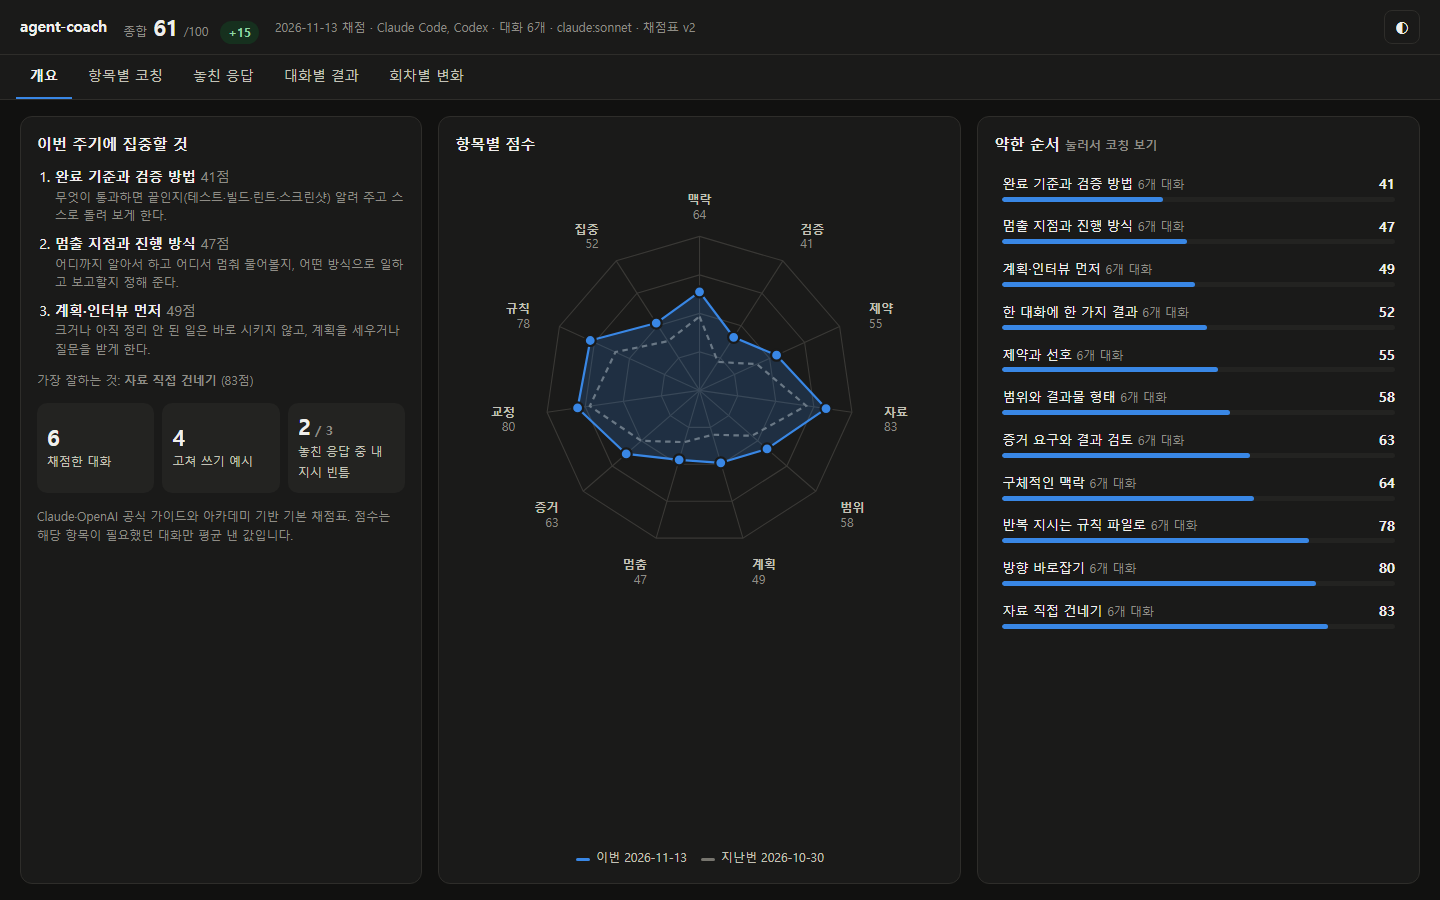
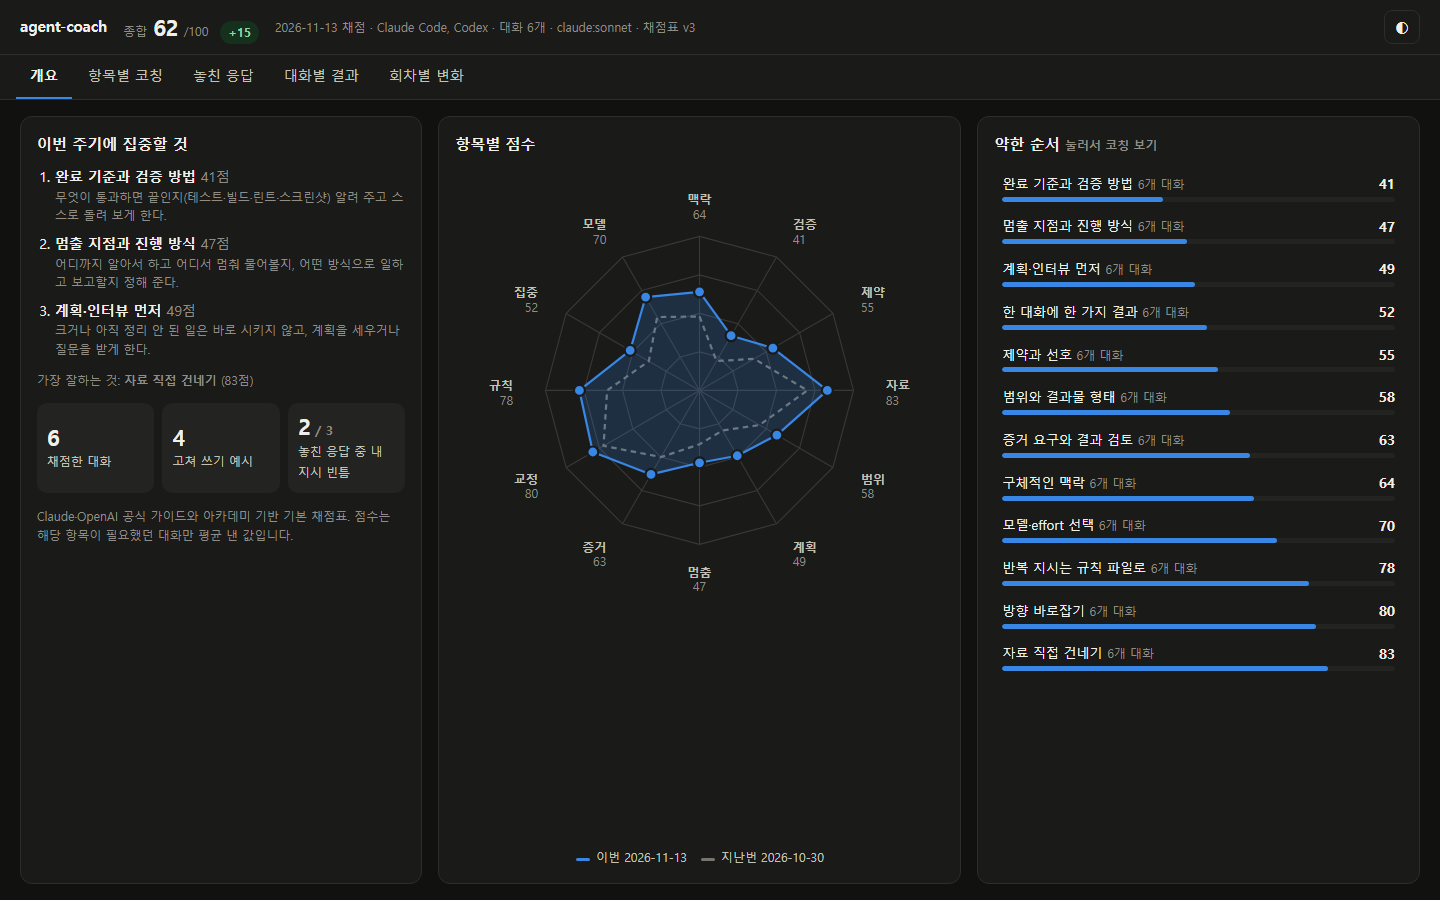
Grade model and effort choice (rubric v3)
- Collect the model and reasoning effort that answered each turn
  (Claude: assistant message model + effort; Codex: turn_context)
- Show them to the judge per turn and in the report's conversation view
- New habit 'Model and effort choice', grounded in Claude Code model
  configuration docs and OpenAI Academy Get Started with Codex 1.2
- Docs, demo data and screenshots updated for 12 habits

diff --git a/agentcoach/collect.py b/agentcoach/collect.py
@@ -26,6 +26,8 @@ class Turn:
     images: int = 0
     slash: str = ""           # e.g. "/clear" when the turn was a slash command
     agent_after: str = ""     # summary of what the agent did before the next human turn
+    model: str = ""           # model that answered this turn, when the transcript records it
+    effort: str = ""          # reasoning effort for that answer (low/medium/high/xhigh/max…)
 
 
 @dataclass
@@ -40,6 +42,15 @@ class Session:
 
     def to_dict(self) -> dict:
         return asdict(self)
+
+    def model_mix(self) -> list[dict]:
+        """[{model, effort, turns}] in order of first use; empty when the transcript has none."""
+        mix: dict[tuple[str, str], int] = {}
+        for t in self.turns:
+            if t.model or t.effort:
+                k = (t.model, t.effort)
+                mix[k] = mix.get(k, 0) + 1
+        return [{"model": m, "effort": e, "turns": n} for (m, e), n in mix.items()]
 
 
 # ---------------------------------------------------------------- helpers
@@ -147,6 +158,10 @@ def parse_claude_file(path: str, include_sdk: bool = False) -> Session | None:
                 if d.get("turnOrigin") not in (None, "human") and not origin_human and not include_sdk:
                     continue
             if d.get("type") == "assistant" and not d.get("isSidechain"):
+                model = (d.get("message") or {}).get("model") or ""
+                if turns and not turns[-1].model and model and not model.startswith("<"):
+                    turns[-1].model = model
+                    turns[-1].effort = str(d.get("perTurnEffort") or d.get("effort") or "")
                 for c in (d.get("message") or {}).get("content") or []:
                     if not isinstance(c, dict):
                         continue
@@ -241,6 +256,8 @@ def parse_codex_file(path: str, include_sdk: bool = False) -> Session | None:
                 if text.startswith(_NOISE_PREFIXES):
                     continue
                 order.append(("user", text, ts, images))
+            elif t == "turn_context":
+                order.append(("ctx", p.get("model") or "", str(p.get("effort") or p.get("reasoning_effort") or "")))
             elif t == "event_msg" and pt == "user_message":
                 from_events.append((p.get("message", "").strip(), ts, len(p.get("images") or [])))
             elif t == "response_item" and pt in ("function_call", "custom_tool_call", "local_shell_call"):
@@ -260,14 +277,21 @@ def parse_codex_file(path: str, include_sdk: bool = False) -> Session | None:
             turns[-1].agent_after = _summarize_agent(tools, last_text)
         tools, last_text = {}, ""
 
+    ctx = ("", "")
     for o in order:
+        if o[0] == "ctx":
+            ctx = (o[1], o[2])
+            if turns and not turns[-1].model:   # context logged right after the prompt it answers
+                turns[-1].model, turns[-1].effort = ctx
+            continue
         if o[0] == "user":
             _, text, ts, images = o
             if not text and not images:
                 continue
             flush()
             slash = text.split()[0] if text.startswith("/") and text.split() else ""
-            turns.append(Turn(index=len(turns) + 1, text=text, ts=ts, images=images, slash=slash))
+            turns.append(Turn(index=len(turns) + 1, text=text, ts=ts, images=images, slash=slash,
+                              model=ctx[0], effort=ctx[1]))
             first_ts = first_ts or ts
             last_ts = ts or last_ts
         elif o[0] == "tool":

diff --git a/tests/test_collect.py b/tests/test_collect.py
@@ -76,6 +76,44 @@ class CodexParse(unittest.TestCase):
         self.assertIsNone(parse_codex_file(p))
 
 
+class ModelEffort(unittest.TestCase):
+    def test_claude_records_model_and_effort(self):
+        from agentcoach.judge import render_transcript
+        p = _write([
+            claude_user("버그 고쳐줘"),
+            {"type": "assistant", "effort": "high", "perTurnEffort": "high",
+             "message": {"model": "claude-opus-5-5", "content": [{"type": "text", "text": "ok"}]}},
+            claude_user("이제 README 오타만 고쳐"),
+            {"type": "assistant", "effort": "low", "perTurnEffort": "low",
+             "message": {"model": "claude-opus-5-5", "content": [{"type": "text", "text": "ok"}]}},
+        ])
+        s = parse_claude_file(p)
+        self.assertEqual([(t.model, t.effort) for t in s.turns],
+                         [("claude-opus-5-5", "high"), ("claude-opus-5-5", "low")])
+        self.assertEqual(len(s.model_mix()), 2)
+        txt = render_transcript(s)
+        self.assertIn("model/effort used", txt)
+        self.assertIn("effort low", txt)
+
+    def test_codex_turn_context(self):
+        p = _write([
+            {"type": "session_meta", "payload": {"id": "m", "cwd": "/w/demo", "source": "vscode",
+                                                 "originator": "codex-tui", "thread_source": "user"}},
+            {"type": "response_item", "payload": {"type": "message", "role": "user",
+                                                  "content": [{"type": "input_text", "text": "테스트 고쳐줘"}]}},
+            {"type": "turn_context", "payload": {"model": "gpt-5.6-sol", "effort": "medium"}},
+        ])
+        s = parse_codex_file(p)
+        self.assertEqual((s.turns[0].model, s.turns[0].effort), ("gpt-5.6-sol", "medium"))
+        self.assertEqual(s.project, "demo")
+
+    def test_rubric_has_model_dimension(self):
+        r = load_rubric(lang="en")
+        d = next(x for x in r["dimensions"] if x["id"] == "model_effort")
+        self.assertEqual(d["name"], "Model and effort choice")
+        self.assertGreaterEqual(r["version"], 3)
+
+
 class Scoring(unittest.TestCase):
     def test_heuristic_and_aggregate(self):
         rubric = load_rubric()

diff --git a/agentcoach/report.py b/agentcoach/report.py
@@ -90,7 +90,7 @@ UI = {
     'no_match': {'ko': '조건에 맞는 대화가 없습니다', 'en': 'No matching conversations'},
     'no_sess': {'ko': '채점한 대화가 없습니다.', 'en': 'No conversations graded.'},
     'back_sess': {'ko': '← 대화 목록', 'en': '← Conversations'},
-    'turns2': {'ko': '${day(s.ended)} · ${s.turns}턴</div>`;', 'en': '${day(s.ended)} · ${s.turns} turns</div>`;'},
+    'turns2': {'ko': '${day(s.ended)} · ${s.turns}턴${mdl(s)}</div>`;', 'en': '${day(s.ended)} · ${s.turns} turns${mdl(s)}</div>`;'},
     'sess_rewrites': {'ko': '<h3>이 대화의 고쳐 쓰기</h3>', 'en': '<h3>Rewrites in this conversation</h3>'},
     'sess_misses': {'ko': '원하는 응답을 못 받은 곳 <span class="chip">', 'en': 'Where you didn\'t get what you wanted <span class="chip">'},
     'verdicts': {'ko': '항목별 판정</h3>', 'en': 'Verdict per habit</h3>'},
@@ -316,6 +316,7 @@ const D = JSON.parse(document.getElementById("data").textContent);
 const dims = D.rubric.dimensions, runs = D.runs, cur = runs[runs.length - 1], prev = runs.length > 1 ? runs[runs.length - 2] : null;
 const sessions = D.current.sessions || [];
 const SRC = {claude: "Claude Code", codex: "Codex"};
+const mdl = s => (s.models || []).length ? " · " + s.models.map(m => esc((m.model || "?").replace(/^claude-/, "")) + (m.effort ? " / " + esc(m.effort) : "") + (s.models.length > 1 ? ` (${m.turns})` : "")).join(", ") : "";
 const $ = s => document.querySelector(s);
 const esc = s => String(s ?? "").replace(/[&<>"']/g, c => ({"&":"&amp;","<":"&lt;",">":"&gt;",'"':"&quot;","'":"&#39;"}[c]));
 const day = s => (s || "").slice(0, 10);

diff --git a/scripts/demo_report.py b/scripts/demo_report.py
@@ -128,6 +128,8 @@ def make_run(rubric, created, base, seed):
         misses = [misses_src[{0: 0, 2: 2, 5: 1}[k]]] if k in (0, 2, 5) else []
         sessions.append({"id": f"s{k}", "source": src, "project": proj, "started": created, "ended": created,
                          "turns": turns, "task_summary": summary, "judge": "claude:sonnet",
+                         "models": [{"model": "claude-opus-5-5" if src == "claude" else "gpt-5.6-sol",
+                                     "effort": ["medium", "high", "low"][k % 3], "turns": turns}],
                          "dimensions": sd, "coaching": coaching, "misses": misses})
     scored = [v["score"] for v in dims.values()]
     return {"schema": 1, "created": created, "judge": "claude:sonnet", "sources": ["claude", "codex"],
@@ -143,8 +145,8 @@ def main():
     ap.add_argument("-o", "--out", default="demo-report.html")
     a = ap.parse_args()
     rubric = load_rubric(lang=a.lang)
-    runs = [make_run(rubric, "2026-10-30T09:00:00+00:00", [48, 22, 41, 70, 45, 30, 35, 50, 72, 60, 38], 1),
-            make_run(rubric, "2026-11-13T09:00:00+00:00", [64, 41, 55, 83, 58, 49, 47, 63, 80, 78, 52], 2)]
+    runs = [make_run(rubric, "2026-10-30T09:00:00+00:00", [48, 22, 41, 70, 45, 30, 35, 50, 72, 60, 38, 55], 1),
+            make_run(rubric, "2026-11-13T09:00:00+00:00", [64, 41, 55, 83, 58, 49, 47, 63, 80, 78, 52, 70], 2)]
     Path(a.out).write_text(render(runs, rubric), encoding="utf-8")
     print(a.out)
 

diff --git a/agentcoach/judge.py b/agentcoach/judge.py
@@ -24,13 +24,22 @@ MAX_SESSION_CHARS = 40000   # misses need the whole session, not just its openin
 
 def render_transcript(s: Session) -> str:
     lines = [f"source: {s.source}  project: {s.project}  turns: {len(s.turns)}"]
+    mix = s.model_mix()
+    if mix:
+        lines.append("\nmodel/effort used: " + ", ".join(
+            f'{m["model"] or "?"} / {m["effort"] or "?"} ({m["turns"]} turns)' for m in mix))
     budget = MAX_SESSION_CHARS
+    shown = ("", "")
     for t in s.turns:
         txt = redact(t.text)
         if len(txt) > MAX_TURN_CHARS:
             txt = txt[:MAX_TURN_CHARS] + f"… [+{len(txt) - MAX_TURN_CHARS} chars]"
         img = f" [+{t.images} image]" if t.images else ""
-        block = f"\n### USER turn {t.index}{img}\n{txt}\n"
+        tag = ""
+        if (t.model or t.effort) and (t.model, t.effort) != shown:
+            tag = f" [answered by {t.model or '?'} / effort {t.effort or '?'}]"
+            shown = (t.model, t.effort)
+        block = f"\n### USER turn {t.index}{img}{tag}\n{txt}\n"
         if t.agent_after:
             block += f"[agent → {redact(t.agent_after)}]\n"
         if len(block) > budget:

diff --git a/agentcoach/store.py b/agentcoach/store.py
@@ -59,7 +59,7 @@ def build_run(sessions: list[Session], results: dict[str, dict], rubric: dict,
             v["excerpt"] = redact(t.text[:220]) if t else ""
         per.append({
             "id": s.id, "source": s.source, "project": s.project,
-            "started": s.started, "ended": s.ended, "turns": len(s.turns),
+            "started": s.started, "ended": s.ended, "turns": len(s.turns), "models": s.model_mix(),
             "task_summary": redact(r.get("task_summary", "")),
             "judge": r.get("judge", judge),
             "dimensions": dims,

diff --git a/README.ko.md b/README.ko.md
@@ -23,14 +23,14 @@
 
 <picture>
   <source media="(prefers-color-scheme: dark)" srcset="https://github.com/1017toa/agent-coach/raw/main/docs/images/ko-overview-dark.png">
-  <img alt="agent-coach 리포트: 종합 점수, 이번에 집중할 습관 3개, 11개 지시 습관 레이더 차트, 약한 순서 목록" src="https://github.com/1017toa/agent-coach/raw/main/docs/images/ko-overview-light.png" width="900">
+  <img alt="agent-coach 리포트: 종합 점수, 이번에 집중할 습관 3개, 12개 지시 습관 레이더 차트, 약한 순서 목록" src="https://github.com/1017toa/agent-coach/raw/main/docs/images/ko-overview-light.png" width="900">
 </picture>
 
 <sub>가상의 대화로 만든 데모 리포트입니다 (<code>python scripts/demo_report.py --lang ko</code>).</sub>
 
 </div>
 
-**agent-coach**는 Claude Code와 OpenAI Codex가 내 컴퓨터에 이미 저장해 둔 대화 기록(`~/.claude/projects`, `~/.codex/sessions`)을 읽어, Anthropic·OpenAI 공식 가이드와 아카데미에서 뽑은 11가지 습관으로 내가 AI에게 지시하는 방식을 채점하는 명령줄 도구입니다. 내가 실제로 쓴 지시를 더 나은 형태로 고쳐 주고, 원하는 응답을 못 받은 턴을 찾아 주며, 회차마다 점수를 쌓아 나아지고 있는지 보여 줍니다.
+**agent-coach**는 Claude Code와 OpenAI Codex가 내 컴퓨터에 이미 저장해 둔 대화 기록(`~/.claude/projects`, `~/.codex/sessions`)을 읽어, Anthropic·OpenAI 공식 가이드와 아카데미에서 뽑은 12가지 습관으로 내가 AI에게 지시하는 방식을 채점하는 명령줄 도구입니다. 내가 실제로 쓴 지시를 더 나은 형태로 고쳐 주고, 원하는 응답을 못 받은 턴을 찾아 주며, 회차마다 점수를 쌓아 나아지고 있는지 보여 줍니다.
 
 ## 빠른 시작
 
@@ -88,7 +88,7 @@ codex plugin add agent-coach@agent-coach
   │
   ● 가리기    키, 이메일, 전화·주민·카드 번호, 주소, 직접 등록한 이름
   │
-  ● 채점      대화당 한 번, 내 claude / codex CLI로, 채점표 v2 (11개 습관)
+  ● 채점      대화당 한 번, 내 claude / codex CLI로, 채점표 v3 (12개 습관)
   │
   ● 저장      ~/.agent-coach/history/run-*.json
   │
@@ -97,7 +97,7 @@ codex plugin add agent-coach@agent-coach
 
 ## 채점 항목
 
-11개 습관을 그 습관이 필요했던 대화에서만 0 / 1 / 2로 매기고, 평균을 0~100점으로 바꿉니다.
+12개 습관을 그 습관이 필요했던 대화에서만 0 / 1 / 2로 매기고, 평균을 0~100점으로 바꿉니다.
 
 | 항목 | 공식 가이드가 권하는 것 |
 |---|---|
@@ -112,6 +112,7 @@ codex plugin add agent-coach@agent-coach
 | 방향 바로잡기 | 두 번 고쳐도 안 되면 더 나은 지시로 새로 시작한다 |
 | 반복 지시는 규칙 파일로 | 매번 하는 말은 CLAUDE.md, AGENTS.md, 스킬에 둔다 |
 | 한 대화에 한 가지 결과 | 새 일은 새 대화에서, 긴 대화는 정리한다 |
+| 모델·effort 선택 | 일의 난이도에 맞는 모델과 effort를 쓴다. 대화마다 실제로 쓴 모델·effort를 보고 판단 |
 
 <img alt="항목별 코칭 탭: 항목 점수, 내가 쓴 지시와 고쳐 쓴 지시 비교, 공식 가이드 근거" src="https://github.com/1017toa/agent-coach/raw/main/docs/images/ko-coaching.png" width="900">
 
@@ -193,9 +194,9 @@ agent-coach report      # 저장된 회차로 리포트 다시 만들기
 
 ## 출처
 
-기본 채점표(v2)는 다음 자료로 만들었습니다.
+기본 채점표(v3)는 다음 자료로 만들었습니다.
 
-- **Anthropic**: [Claude Code 모범 사례](https://code.claude.com/docs/en/best-practices), [Opus 5.5 활용 가이드](https://claude.dev/blog/getting-the-most-out-of-opus-5-5/)
+- **Anthropic**: [Claude Code 모범 사례](https://code.claude.com/docs/en/best-practices), [모델 설정](https://code.claude.com/docs/en/model-config), [Opus 5.5 활용 가이드](https://claude.dev/blog/getting-the-most-out-of-opus-5-5/)
 - **Claude 아카데미**: [AI Fluency: Framework & Foundations](https://academy.claude.com/courses/ai-fluency-framework-foundations), [Claude Code 101](https://academy.claude.com/courses/claude-code-101), [Claude Code in Action](https://academy.claude.com/courses/claude-code-in-action), [Claude 101](https://academy.claude.com/courses/claude-101)
 - **OpenAI**: [Codex Best practices](https://learn.chatgpt.com/guides/best-practices), [Codex Prompting](https://learn.chatgpt.com/docs/prompting)
 - **OpenAI 아카데미**: [Get Started with Codex](https://academy.openai.com/public/courses/get-started-with-codex-jkhsq), [Agents and Workflows](https://academy.openai.com/public/courses/agents-and-workflows-y0qoc), [Extend Codex Workflows](https://academy.openai.com/public/courses/extend-codex-workflows-4e61p) (무료, 로그인 필요. 채점표는 네 칸 작업 지시, Plan 모드, 검증과 인계, 위임 계약, AGENTS.md 같은 구체적인 레슨을 근거로 씀)

diff --git a/README.md b/README.md
@@ -23,14 +23,14 @@
 
 <picture>
   <source media="(prefers-color-scheme: dark)" srcset="https://github.com/1017toa/agent-coach/raw/main/docs/images/overview-dark.png">
-  <img alt="agent-coach report: overall score, the three habits to work on, a radar chart of 11 prompting habits and a weakest-first list" src="https://github.com/1017toa/agent-coach/raw/main/docs/images/overview-light.png" width="900">
+  <img alt="agent-coach report: overall score, the three habits to work on, a radar chart of 12 prompting habits and a weakest-first list" src="https://github.com/1017toa/agent-coach/raw/main/docs/images/overview-light.png" width="900">
 </picture>
 
 <sub>Demo report built from made-up conversations (<code>python scripts/demo_report.py</code>).</sub>
 
 </div>
 
-**agent-coach** is a command-line tool that reads the transcripts Claude Code and OpenAI Codex already save on your machine (`~/.claude/projects`, `~/.codex/sessions`) and scores how you direct the agent on 11 habits taken from the official Anthropic and OpenAI guides and academies. It rewrites prompts you actually typed into better versions, finds the turns where you didn't get what you wanted, and tracks your scores run after run so you can see whether you're improving.
+**agent-coach** is a command-line tool that reads the transcripts Claude Code and OpenAI Codex already save on your machine (`~/.claude/projects`, `~/.codex/sessions`) and scores how you direct the agent on 12 habits taken from the official Anthropic and OpenAI guides and academies. It rewrites prompts you actually typed into better versions, finds the turns where you didn't get what you wanted, and tracks your scores run after run so you can see whether you're improving.
 
 ## Quick start
 
@@ -88,7 +88,7 @@ Judge: `claude` CLI, `codex` CLI, or offline keyword scoring (`--judge heuristic
   │
   ● redact     keys, emails, phone / ID / card numbers, addresses, names you list
   │
-  ● judge      one call per conversation via your claude / codex CLI, rubric v2 (11 habits)
+  ● judge      one call per conversation via your claude / codex CLI, rubric v3 (12 habits)
   │
   ● save       ~/.agent-coach/history/run-*.json
   │
@@ -97,7 +97,7 @@ Judge: `claude` CLI, `codex` CLI, or offline keyword scoring (`--judge heuristic
 
 ## What it grades
 
-Eleven habits, each scored 0 / 1 / 2 only in the conversations where it mattered, averaged to 0–100.
+Twelve habits, each scored 0 / 1 / 2 only in the conversations where it mattered, averaged to 0–100.
 
 | Habit | What the guides recommend |
 |---|---|
@@ -112,6 +112,7 @@ Eleven habits, each scored 0 / 1 / 2 only in the conversations where it mattered
 | Course correction | After two failed corrections, start fresh with a better prompt |
 | Move repeated rules into files | Put recurring rules in CLAUDE.md, AGENTS.md or a skill |
 | One outcome per conversation | New work in a new conversation; tidy long ones |
+| Model and effort choice | Match model and reasoning effort to the work, judged from what each conversation actually ran on |
 
 <img alt="Coaching tab: a habit's score, rewrites of the user's own prompts side by side with better versions, and the official guidance behind it" src="https://github.com/1017toa/agent-coach/raw/main/docs/images/coaching.png" width="900">
 
@@ -193,9 +194,9 @@ Not yet; Claude Code and Codex only. Support for more tools is on the roadmap, a
 
 ## Sources
 
-The default rubric (v2) is built from:
+The default rubric (v3) is built from:
 
-- **Anthropic**: [Best practices for Claude Code](https://code.claude.com/docs/en/best-practices), [Getting the most out of Opus 5.5](https://claude.dev/blog/getting-the-most-out-of-opus-5-5/)
+- **Anthropic**: [Best practices for Claude Code](https://code.claude.com/docs/en/best-practices), [Model configuration](https://code.claude.com/docs/en/model-config), [Getting the most out of Opus 5.5](https://claude.dev/blog/getting-the-most-out-of-opus-5-5/)
 - **Claude Academy**: [AI Fluency: Framework & Foundations](https://academy.claude.com/courses/ai-fluency-framework-foundations), [Claude Code 101](https://academy.claude.com/courses/claude-code-101), [Claude Code in Action](https://academy.claude.com/courses/claude-code-in-action), [Claude 101](https://academy.claude.com/courses/claude-101)
 - **OpenAI**: [Codex Best practices](https://learn.chatgpt.com/guides/best-practices), [Codex Prompting](https://learn.chatgpt.com/docs/prompting)
 - **OpenAI Academy**: [Get Started with Codex](https://academy.openai.com/public/courses/get-started-with-codex-jkhsq), [Agents and Workflows](https://academy.openai.com/public/courses/agents-and-workflows-y0qoc), [Extend Codex Workflows](https://academy.openai.com/public/courses/extend-codex-workflows-4e61p) (free with sign-in; the rubric cites specific lessons, such as the four-part task brief, Plan Mode, validation and handoff, delegation contracts and AGENTS.md)

diff --git a/CONTRIBUTING.md b/CONTRIBUTING.md
@@ -22,7 +22,7 @@ No install is needed; `python -m agentcoach` runs from the checkout.
 | `agentcoach/redact.py` | Masks secrets and contact details before anything is sent to a judge |
 | `agentcoach/judge.py` | Builds the judge prompt and JSON schema, calls the `claude` / `codex` CLI |
 | `agentcoach/heuristics.py` | Offline keyword scoring |
-| `agentcoach/rubric/default.json` | The 11 habits, examples and guide citations (Korean base, `*_en` fields for English) |
+| `agentcoach/rubric/default.json` | The 12 habits, examples and guide citations (Korean base, `*_en` fields for English) |
 | `agentcoach/report.py` | Self-contained HTML report; UI strings in the `UI` table |
 | `agentcoach/i18n.py` | CLI messages in English and Korean |
 | `skills/coach/SKILL.md` | The skill the Claude Code and Codex plugins run |
